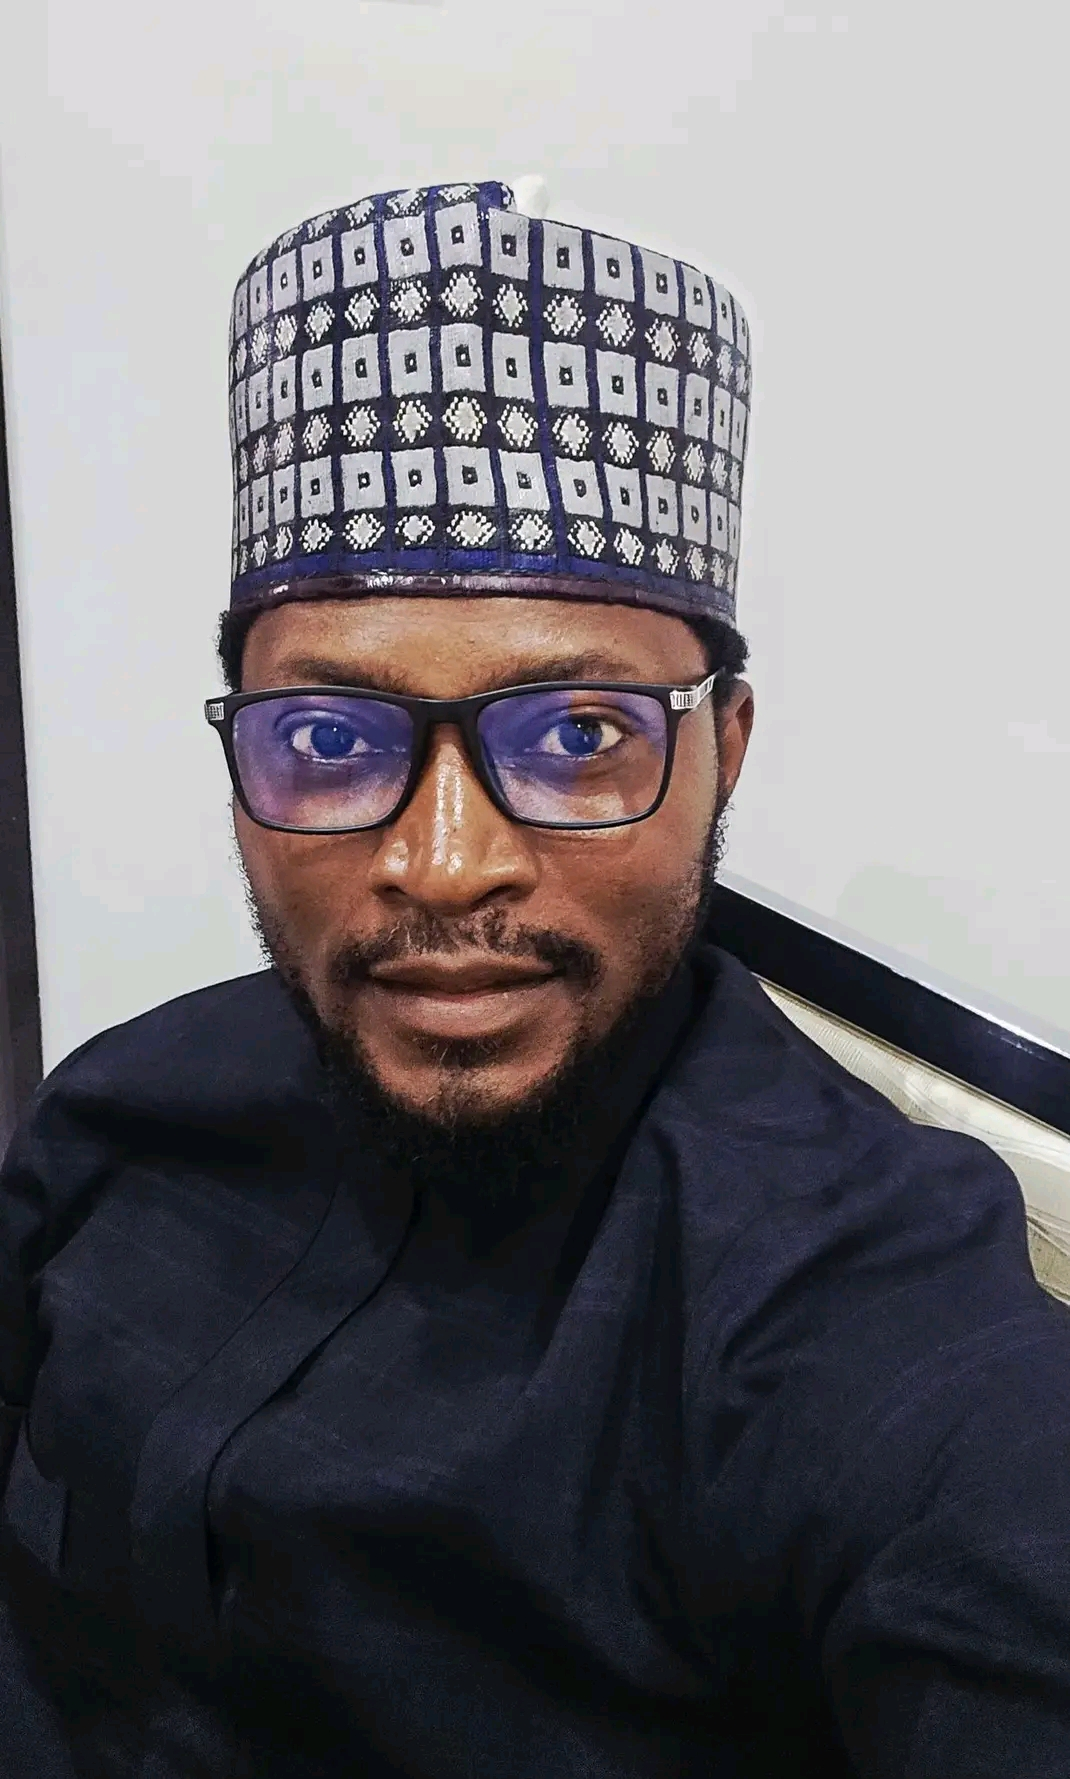
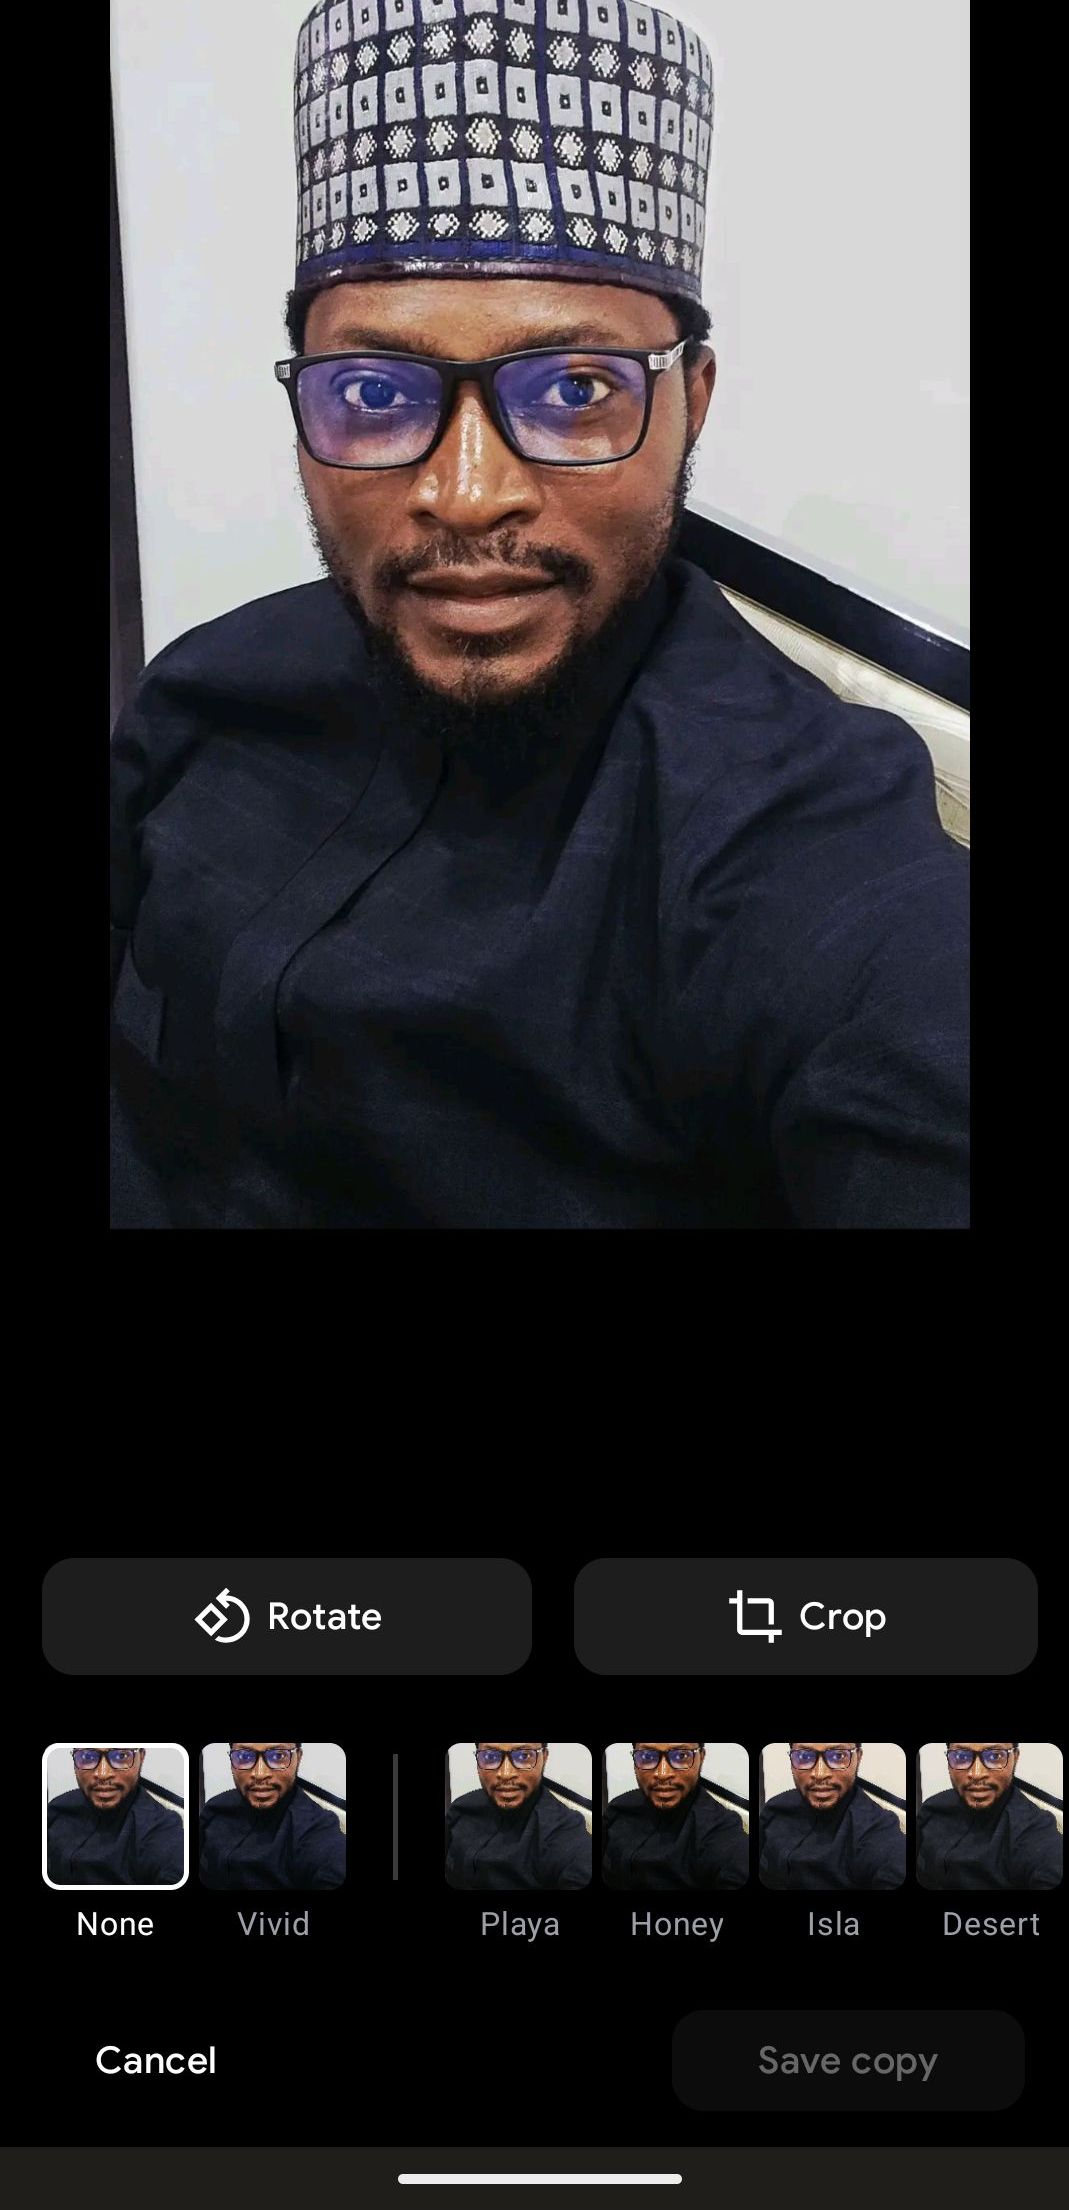
diverse updates made

diff --git a/src/components/GrowthTracker.tsx b/src/components/GrowthTracker.tsx
@@ -160,7 +160,7 @@ export const GrowthTracker: React.FC<GrowthTrackerProps> = ({
             <Sprout className={`w-4 h-4 ${activeMetric === 'yield' ? 'text-emerald-300' : 'text-emerald-700'}`} />
           </div>
           <div className="text-2xl font-serif font-bold">
-            7.5 <span className="text-xs font-normal">Tons / Ha</span>
+            4.7 <span className="text-xs font-normal">Tons / Ha</span>
           </div>
           <div className={`text-[11px] font-medium flex items-center gap-1 ${activeMetric === 'yield' ? 'text-emerald-200' : 'text-emerald-700'}`}>
             <ArrowUpRight className="w-3.5 h-3.5" />
@@ -184,11 +184,11 @@ export const GrowthTracker: React.FC<GrowthTrackerProps> = ({
             <Sparkles className={`w-4 h-4 ${activeMetric === 'income' ? 'text-amber-300' : 'text-amber-700'}`} />
           </div>
           <div className="text-2xl font-serif font-bold">
-            ₦3.1 Million <span className="text-xs font-normal">/ year</span>
+            ₦725,000 <span className="text-xs font-normal">/ year</span>
           </div>
           <div className={`text-[11px] font-medium flex items-center gap-1 ${activeMetric === 'income' ? 'text-amber-200' : 'text-amber-700'}`}>
             <ArrowUpRight className="w-3.5 h-3.5" />
-            <span>+588% smallholder revenue</span>
+            <span>+302% smallholder revenue</span>
           </div>
         </button>
 
@@ -208,10 +208,10 @@ export const GrowthTracker: React.FC<GrowthTrackerProps> = ({
             <ShieldCheck className={`w-4 h-4 ${activeMetric === 'loss' ? 'text-rose-300' : 'text-rose-700'}`} />
           </div>
           <div className="text-2xl font-serif font-bold">
-            4% <span className="text-xs font-normal">Loss (Down from 38%)</span>
+            2% <span className="text-xs font-normal">Loss (Down from 24%)</span>
           </div>
           <div className={`text-[11px] font-medium flex items-center gap-1 ${activeMetric === 'loss' ? 'text-rose-200' : 'text-rose-700'}`}>
-            <span>Solar cold pods + direct off-take</span>
+            <span>Market linkage + direct off-take</span>
           </div>
         </button>
 
@@ -231,7 +231,7 @@ export const GrowthTracker: React.FC<GrowthTrackerProps> = ({
             <Users className={`w-4 h-4 ${activeMetric === 'network' ? 'text-sky-300' : 'text-sky-700'}`} />
           </div>
           <div className="text-2xl font-serif font-bold">
-            300+ <span className="text-xs font-normal">Farmers</span>
+            1,000+ <span className="text-xs font-normal">Farmers</span>
           </div>
           <div className={`text-[11px] font-medium flex items-center gap-1 ${activeMetric === 'network' ? 'text-sky-200' : 'text-sky-700'}`}>
             <ArrowUpRight className="w-3.5 h-3.5" />
@@ -249,7 +249,7 @@ export const GrowthTracker: React.FC<GrowthTrackerProps> = ({
             {getMetricTitle()}
           </span>
           <span className="text-xs font-mono text-stone-500">
-            Historical Data (2022–2026)
+            Historical Data (2023–2026)
           </span>
         </div>
 
@@ -360,19 +360,9 @@ export const GrowthTracker: React.FC<GrowthTrackerProps> = ({
           <div className="flex items-center gap-2">
             <Award className="w-4 h-4 text-emerald-700 shrink-0" />
             <span>
-              <strong>Key Growth Driver:</strong> Certified hybrid seed inputs, Mechanized tractor leasing, solar cold pods, and guaranteed floor buybacks at farm-gate.
+              <strong>Key Growth Driver:</strong> Certified hybrid seed inputs, Mechanized tractor leasing, quality storage facilities, and guaranteed buybacks at farm-gate.
             </span>
           </div>
-
-          {onOpenInquiryModal && (
-            <button
-              onClick={() => onOpenInquiryModal('Impact Investor')}
-              className="text-emerald-800 font-bold hover:underline shrink-0 text-xs cursor-pointer flex items-center gap-1"
-            >
-              <span>Download Impact Audit Report</span>
-              <ArrowUpRight className="w-3.5 h-3.5" />
-            </button>
-          )}
         </div>
 
       </div>

diff --git a/src/components/Navbar.tsx b/src/components/Navbar.tsx
@@ -195,24 +195,7 @@ export const Navbar: React.FC<NavbarProps> = ({
             })}
           </nav>
 
-          {/* Header Action Buttons */}
-          <div className="hidden sm:flex items-center gap-3">
-            <button
-              onClick={() => onOpenInquiryModal('Smallholder Farmer')}
-              className="px-4 py-2 rounded-lg border border-emerald-700 text-emerald-800 hover:bg-emerald-50 text-sm font-bold transition-all flex items-center gap-1.5 cursor-pointer"
-            >
-              <Tractor className="w-4 h-4 text-emerald-700" />
-              <span>Farmer Hub</span>
-            </button>
-            <button
-              onClick={() => onOpenInquiryModal('Commercial Buyer')}
-              className="px-4 py-2 rounded-lg bg-emerald-800 hover:bg-emerald-900 text-white text-sm font-bold shadow-sm transition-all flex items-center gap-1.5 cursor-pointer"
-            >
-              <Handshake className="w-4 h-4 text-emerald-300" />
-              <span>Bulk Off-Take</span>
-            </button>
-          </div>
-
+          
           {/* Mobile Menu Button */}
           <div className="lg:hidden flex items-center gap-2">
             <button
@@ -299,33 +282,6 @@ export const Navbar: React.FC<NavbarProps> = ({
 
             <button onClick={() => handleNavClick('contact')} className="w-full text-left px-3 py-3 rounded-lg text-stone-200 hover:bg-stone-800">
               Contact
-            </button>
-
-            <button onClick={() => { setMobileMenuOpen(false); onOpenInquiryModal('General'); }} className="w-full text-left px-3 py-3 rounded-lg bg-emerald-700 text-white font-bold">
-              Partner With Us
-            </button>
-          </div>
-
-          <div className="pt-3 border-t border-stone-800 grid grid-cols-2 gap-2">
-            <button
-              onClick={() => {
-                setMobileMenuOpen(false);
-                onOpenInquiryModal('Smallholder Farmer');
-              }}
-              className="w-full py-2.5 px-3 bg-stone-800 hover:bg-stone-700 text-emerald-300 rounded-lg text-xs font-bold flex items-center justify-center gap-1.5"
-            >
-              <Tractor className="w-4 h-4" />
-              Farmer Hub
-            </button>
-            <button
-              onClick={() => {
-                setMobileMenuOpen(false);
-                onOpenInquiryModal('Commercial Buyer');
-              }}
-              className="w-full py-2.5 px-3 bg-emerald-600 hover:bg-emerald-500 text-white rounded-lg text-xs font-bold flex items-center justify-center gap-1.5"
-            >
-              <Handshake className="w-4 h-4" />
-              Bulk Off-Take
             </button>
           </div>
         </div>

diff --git a/src/pages/HomePage.tsx b/src/pages/HomePage.tsx
@@ -3,7 +3,7 @@ import { CompanySettings, InquiryCallback, ProducePillar } from '../types';
 import { Hero } from '../components/Hero';
 import { PartnershipsSection } from '../components/PartnershipsSection';
 import { ArrowRight, Sprout, Warehouse, TrendingUp, Users, Leaf, HandCoins, Stethoscope, CircleDollarSign, BriefcaseBusiness, BookOpenText, Coins, Cpu, Store, UserRound } from 'lucide-react';
-import innovationFarmImage from '../assets/images/smallholder_farmer_hub_1784882677913.jpg';
+import innovationFarmImage from '../assets/images/farm.jpg';
 import FatimaImage from '../assets/images/fatima.jpg';
 import habibaAbasImage from '../assets/images/habiba.webp';
 import daudaImage from '../assets/images/dauda.jpg';
@@ -102,7 +102,7 @@ export const HomePage: React.FC<HomePageProps> = ({
               Smallholder farmers feed the country. They deserve systems built around their reality.
             </h2>
             <p className="mt-4 text-base text-[var(--agro-muted)]">
-              We work at the intersection of production, enterprise, knowledge and market access so farmers can move from survival to sustainable growth.
+              We work at the intersection of production, enterprise, knowledge, and market access — helping farmers move from just surviving to growing sustainably.
             </p>
           </div>
 
@@ -126,7 +126,7 @@ export const HomePage: React.FC<HomePageProps> = ({
               One farmer. One ecosystem. Better opportunity.
             </h2>
             <p className="mt-4 text-base text-[var(--agro-muted)]">
-              We connect the practical support farmers need to produce, earn, learn and grow more confidently.
+              We connect farmers with the practical support they need to produce more, earn more, learn more, and grow with greater confidence.
             </p>
           </div>
 
@@ -293,7 +293,7 @@ export const HomePage: React.FC<HomePageProps> = ({
 
           <div className="mt-8 grid gap-4 sm:grid-cols-2 lg:grid-cols-4">
             {[
-              ['300+', 'Smallholders Supported', 'Smallholder farmers equipped with input financing and essential training.'],
+              ['1,000+', 'Smallholders Supported To Date', 'Smallholder farmers equipped with input financing and essential training.'],
               ['₦150M+', 'Input Financing', 'Low-cost seeds, fertilizers, and crop protection delivered straight to fields.'],
               ['65%', 'Women & Youth', 'Active inclusion and leadership development across our training hubs.'],
               ['98%', 'Storage Quality', 'Grains successfully protected from post-harvest waste using warehousing solutions.'],

diff --git a/src/data/agribusinessData.ts b/src/data/agribusinessData.ts
@@ -20,8 +20,8 @@ export const defaultCompanySettings: CompanySettings = {
   officeAddress: "No. 5B Old Sokoto Road MTD Hanwa Zaria, Kaduna State, Nigeria",
   farmLocation: "Gazara, Makarfi, Kaduna State, Nigeria",
   email: "info@gleanagrong.com",
-  phone: "+234 813 440 7110",
-  whatsapp: "+234 703 596 1713"
+  phone: "+234 905 078 5803",
+  whatsapp: "+234 809 935 8250"
 };
 
 export interface GrowthMetricPoint {
@@ -35,43 +35,35 @@ export interface GrowthMetricPoint {
 
 export const yieldGrowthData: GrowthMetricPoint[] = [
   {
-    year: "2022",
-    maizeYieldTonsPerHa: 1.8,
-    smallholderIncomeNaira: 450000,
-    postHarvestLossPercent: 38,
-    outgrowerNetworkCount: 1200,
-    aquacultureProductionTons: 25
-  },
-  {
     year: "2023",
     maizeYieldTonsPerHa: 3.2,
-    smallholderIncomeNaira: 820000,
+    smallholderIncomeNaira: 180000,
     postHarvestLossPercent: 24,
-    outgrowerNetworkCount: 3800,
+    outgrowerNetworkCount: 150,
     aquacultureProductionTons: 60
   },
   {
     year: "2024",
-    maizeYieldTonsPerHa: 4.8,
-    smallholderIncomeNaira: 1450000,
+    maizeYieldTonsPerHa: 3.5,
+    smallholderIncomeNaira: 200000,
     postHarvestLossPercent: 14,
-    outgrowerNetworkCount: 7500,
+    outgrowerNetworkCount: 300,
     aquacultureProductionTons: 110
   },
   {
     year: "2025",
-    maizeYieldTonsPerHa: 6.1,
-    smallholderIncomeNaira: 2200000,
+    maizeYieldTonsPerHa: 3.8,
+    smallholderIncomeNaira: 375000,
     postHarvestLossPercent: 8,
-    outgrowerNetworkCount: 11200,
+    outgrowerNetworkCount: 400,
     aquacultureProductionTons: 180
   },
   {
     year: "2026",
-    maizeYieldTonsPerHa: 7.5,
-    smallholderIncomeNaira: 3100000,
-    postHarvestLossPercent: 4,
-    outgrowerNetworkCount: 15000,
+    maizeYieldTonsPerHa: 4.7,
+    smallholderIncomeNaira: 725000,
+    postHarvestLossPercent: 2,
+    outgrowerNetworkCount: 500,
     aquacultureProductionTons: 250
   }
 ];

diff --git a/src/pages/ContentPages.tsx b/src/pages/ContentPages.tsx
@@ -19,7 +19,7 @@ import princessImage from '../assets/team/princess-adaeze.jpg';
 import murtalaImage from '../assets/team/murtala-muazu.jpg';
 import hannatuImage from '../assets/team/hannatu-yusuf.jpg';
 import johnImage from '../assets/team/john-shijah-bala.jpg';
-import joshuaImage from '../assets/team/joshua-ishaku.png';
+import joshuaImage from '../assets/team/joshua-ishaku.jpg';
 import seyiImage from '../assets/team/seyi-edwards.jpg';
 import amakaImage from '../assets/team/amaka-obehi.jpg';
 import appoloImage from '../assets/team/appolo-goma.jpg';
@@ -135,7 +135,7 @@ export const OurTeamPage: React.FC<PageProps> = ({ onNavigatePage, onOpenInquiry
           [murtalaImage, "Murtala Mu'azu", 'Commercial Manager'],
           [hannatuImage, 'Hannatu Yusuf', 'Director of People and Culture'],
           [johnImage, 'John Shijah Bala', 'Field Operations Lead'],
-    [joshuaImage, 'Ishaku Joshua Audu', 'Product Lead'],
+    [joshuaImage, 'Ishaku Joshua Audu', 'Chief Technology Officer'],
         ].map(([image, name, role]) => <article key={name} className="agro-card overflow-hidden"><img src={image} alt={`${name}, ${role}`} className="h-64 w-full object-cover object-top" /><div className="p-5"><h2 className="text-lg font-bold">{name}</h2><p className="mt-1 text-sm font-semibold text-emerald-700">{role}</p></div></article>)}
       </div>
       <section className="rounded-3xl border border-stone-200 bg-white p-8 sm:p-12"><Users className="mb-5 h-10 w-10 text-emerald-700" /><h2 className="text-3xl font-bold">Work with the team</h2><p className="mt-4 max-w-2xl text-base leading-relaxed text-stone-600">For current enquiries, partnerships, and agricultural support requests, contact the GleanAgro team directly.</p><div className="mt-7"><CTA onNavigatePage={onNavigatePage} onOpenInquiryModal={onOpenInquiryModal} label="Connect With GleanAgro" /></div></section>

diff --git a/src/pages/FarmerHubPage.tsx b/src/pages/FarmerHubPage.tsx
@@ -73,7 +73,7 @@ export const FarmerHubPage: React.FC<FarmerHubPageProps> = ({
           <div className="flex flex-wrap items-center gap-2">
             {([
               { id: 'prices', label: 'Live Market Prices', icon: TrendingUp },
-              { id: 'equipment', label: 'Equipment & Tractor Leasing', icon: Tractor },
+              { id: 'equipment', label: 'Farm Equipment & Tractor Leasing', icon: Tractor },
               { id: 'training', label: 'Agronomy Training Academy', icon: BookOpen },
               { id: 'services', label: 'Outgrower Support Services', icon: HandCoins }
             ] as const).map(tab => {
@@ -185,7 +185,7 @@ export const FarmerHubPage: React.FC<FarmerHubPageProps> = ({
                   <span>Interactive Commodity Value Calculator</span>
                 </div>
                 <h4 className="text-xl font-serif font-bold text-stone-100">
-                  Calculate Estimated Farm-Gate Harvest Value
+                  Calculate Estimated Harvest Value
                 </h4>
 
                 <div className="grid grid-cols-1 sm:grid-cols-2 gap-4">
@@ -426,11 +426,11 @@ export const FarmerHubPage: React.FC<FarmerHubPageProps> = ({
           </div>
 
           <a
-            href="tel:+2348134407110"
+            href="tel:+2349050785803"
             className="px-6 py-3.5 bg-emerald-500 hover:bg-emerald-400 text-stone-950 rounded-xl font-bold text-sm shadow-md transition-all shrink-0 flex items-center gap-2"
           >
             <Phone className="w-5 h-5" />
-            <span>Call +234 813 440 7110</span>
+            <span>Call +234 905 078 5803</span>
           </a>
         </div>
 

diff --git a/src/components/AboutSection.tsx b/src/components/AboutSection.tsx
@@ -47,11 +47,11 @@ export const AboutSection: React.FC<AboutSectionProps> = ({
               </p>
 
               <p>
-                To solve this at scale, we started as a high-yield commercial producer in <strong className="text-emerald-800">Fishery</strong>, <strong className="text-emerald-800">Poultry</strong>, <strong className="text-emerald-800">Cattle rearing</strong>, and <strong className="text-emerald-800">Arable grains</strong>. By building and mastering our own 120-hectare flagship operation, we established direct commercial off-take contracts with hotels, supermarkets, and processors.
+                To solve this at scale, we started as a high-yield commercial producer in <strong className="text-emerald-800">Fishery</strong>, <strong className="text-emerald-800">Poultry</strong>, <strong className="text-emerald-800">Cattle rearing</strong>, and <strong className="text-emerald-800">Arable grains</strong>.
               </p>
 
               <p>
-                Now, we are opening our value chain to rural smallholders — offering decentralized solar cold storage, shared equipment leasing, input credit, and guaranteed market off-take.
+                Now, we are opening our value chain to rural smallholders — offering shared equipment leasing, input credit, and guaranteed market off-take.
               </p>
             </div>
 

diff --git a/src/pages/AboutPage.tsx b/src/pages/AboutPage.tsx
@@ -16,7 +16,7 @@ import {
   Wheat,
 } from 'lucide-react';
 import { CompanySettings, InquiryCallback } from '../types';
-import heroImage from '../assets/images/smallholder_farmer_hub_1784882677913.jpg';
+import heroImage from '../assets/images/hero-img.jpg';
 
 interface AboutPageProps {
   companySettings: CompanySettings;

diff --git a/src/pages/StoragePage.tsx b/src/pages/StoragePage.tsx
@@ -19,7 +19,7 @@ import {
   Wheat,
 } from 'lucide-react';
 import { InquiryCallback } from '../types';
-import heroImage from '../assets/images/agribusiness_hero_banner_1784882619239.jpg';
+import heroImage from '../assets/images/harvest.jpeg';
 
 interface StoragePageProps {
   onOpenInquiryModal: InquiryCallback;
